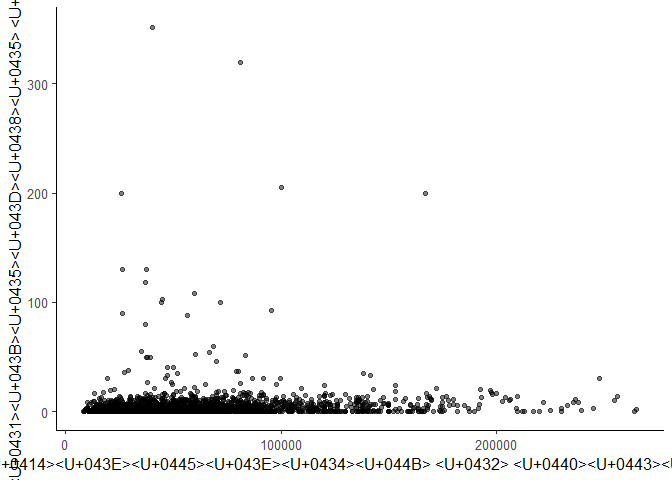
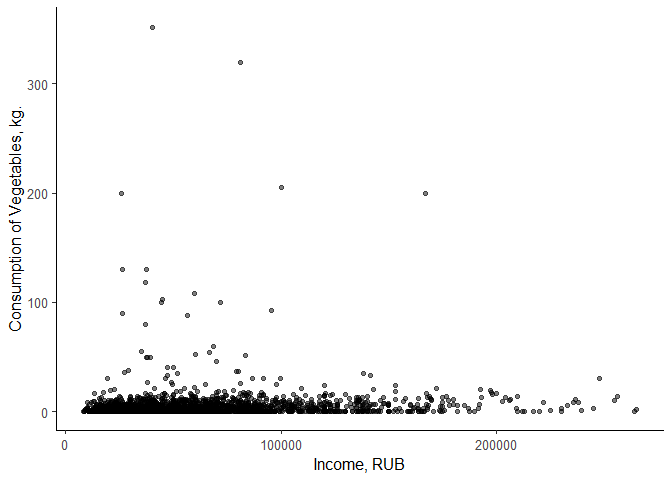
Add files via upload

Changed region(s): [[0.0, 0.0, 0.625, 1.0], [0.6562, 0.9375, 1.0, 1.0]]

diff --git a/razvedanaliz/krcodeR_final.md b/razvedanaliz/krcodeR_final.md
@@ -154,23 +154,11 @@ desc_print
 x %>% 
   ggplot(aes(income)) + 
   geom_density(alpha = 0.25) +
-  xlab("Доход в руб.") +
+  xlab("Income, RUB") +
   ylab("")
 ```
 
 ![](krcodeR_final_files/figure-gfm/6-1.png)<!-- -->
-
-## Плотность распределения: расходы на питание в руб.
-
-``` r
-x %>% 
-  ggplot(aes(sum_rub_buy)) + 
-  geom_density(alpha = 0.25) +
-  xlab("Расходы в руб.") +
-  ylab("")
-```
-
-![](krcodeR_final_files/figure-gfm/7-1.png)<!-- -->
 
 ## Корреляция между категориями еды и доходом
 
@@ -932,8 +920,8 @@ t.test(x$alcodrinks ~ x$plot_bi)
 x %>% 
   ggplot(aes(x = income, y = vegetables)) +
   geom_jitter(width = 0.25, alpha = 0.5) +  
-  scale_y_continuous(name = "потребление овощей") +
-  scale_x_continuous(name = "Доходы в руб.")
+  scale_y_continuous(name = "Consumption of Vegetables, kg.") +
+  scale_x_continuous(name = "Income, RUB")
 ```
 
 ![](krcodeR_final_files/figure-gfm/12-1.png)<!-- -->
